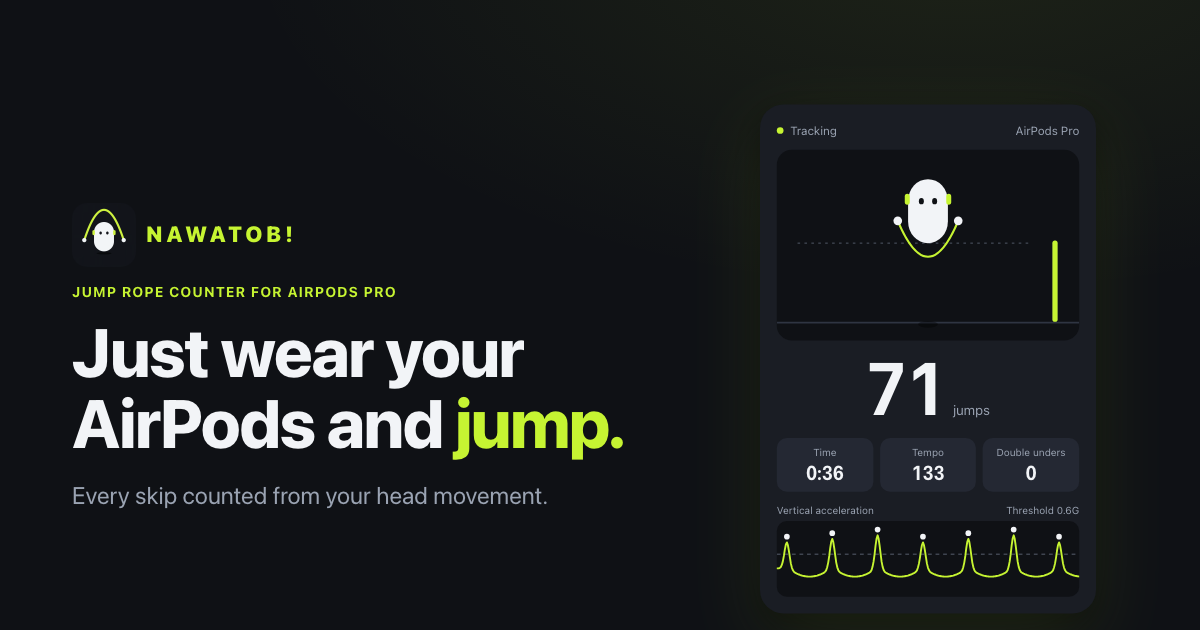
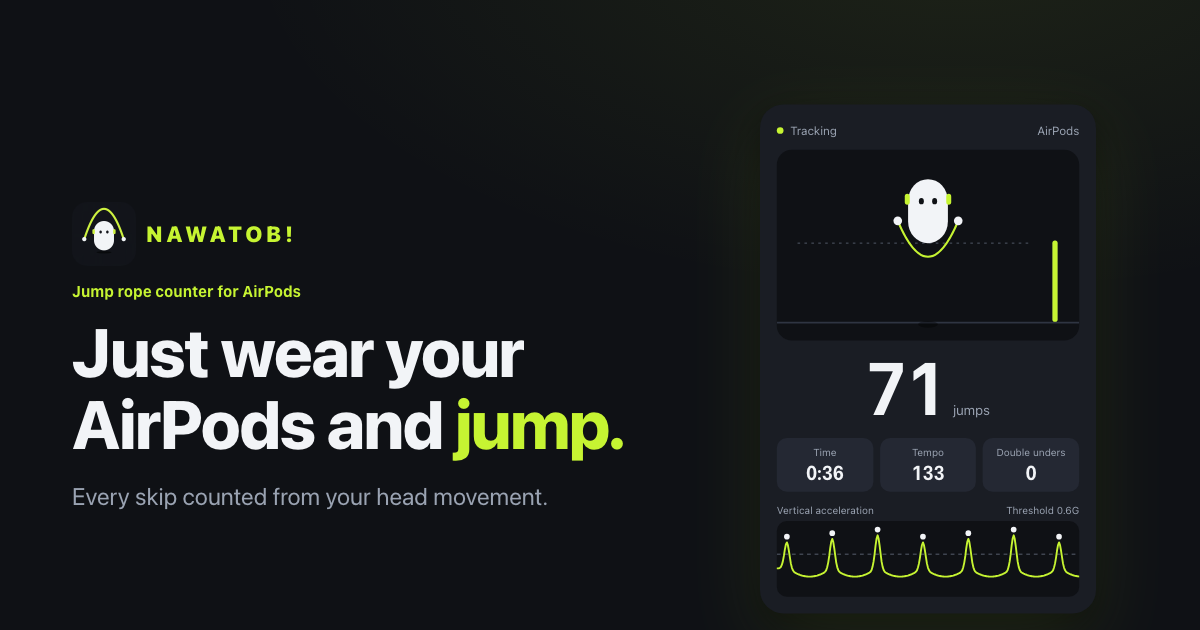
AirPods Pro 専用と誤解されないよう表記を AirPods に揃え、対応機種を明記する
- キャッチコピーを App Store のサブタイトルに合わせて「for AirPods」にし、大文字表示をやめる
- LP・サポート・プライバシーポリシーで Pro が必須と読める箇所を AirPods に直す
- ヒーローに対応機種（AirPods Pro・AirPods Max・AirPods 第3世代以降）を書く

prompt: AIRPODS PRO ってのを変えて AirPodsにして / AirPods Proじゃなくていいのでそれも誤解されないようにしたい

diff --git a/ja/index.html b/ja/index.html
@@ -3,8 +3,8 @@
 <head>
   <meta charset="utf-8">
   <meta name="viewport" content="width=device-width, initial-scale=1">
-  <title>Nawatob! — AirPods Pro で縄跳びを自動カウント</title>
-  <meta name="description" content="AirPods Pro を着けて跳ぶだけ。Nawatob! は頭の動きから縄跳びの回数を自動で数え、テンポ・二重跳び・消費カロリー・連続記録も残す iPhone アプリです。">
+  <title>Nawatob! — AirPods で縄跳びを自動カウント</title>
+  <meta name="description" content="AirPods を着けて跳ぶだけ。Nawatob! は頭の動きから縄跳びの回数を自動で数え、テンポ・二重跳び・消費カロリー・連続記録も残す iPhone アプリです。">
   <link rel="canonical" href="https://ta1m1kam.github.io/nawatobi-support/ja/">
   <link rel="alternate" hreflang="en" href="https://ta1m1kam.github.io/nawatobi-support/">
   <link rel="alternate" hreflang="ja" href="https://ta1m1kam.github.io/nawatobi-support/ja/">
@@ -13,8 +13,8 @@
   <meta name="theme-color" content="#0f1115">
   <meta property="og:type" content="website">
   <meta property="og:site_name" content="Nawatob!">
-  <meta property="og:title" content="Nawatob! — AirPods Pro で縄跳びを自動カウント">
-  <meta property="og:description" content="AirPods Pro を着けて跳ぶだけ。頭の動きから縄跳びの回数を数えます。">
+  <meta property="og:title" content="Nawatob! — AirPods で縄跳びを自動カウント">
+  <meta property="og:description" content="AirPods を着けて跳ぶだけ。頭の動きから縄跳びの回数を数えます。">
   <meta property="og:url" content="https://ta1m1kam.github.io/nawatobi-support/ja/">
   <meta property="og:image" content="https://ta1m1kam.github.io/nawatobi-support/assets/og-ja.png">
   <meta property="og:locale" content="ja_JP">
@@ -30,7 +30,7 @@
     "@context": "https://schema.org",
     "@type": "MobileApplication",
     "name": "Nawatob!",
-    "description": "AirPods Pro で縄跳びを自動カウント。頭の動きからジャンプの回数を数えます。",
+    "description": "AirPods で縄跳びを自動カウント。頭の動きからジャンプの回数を数えます。",
     "operatingSystem": "iOS 26.0 以降",
     "applicationCategory": "HealthApplication",
     "inLanguage": ["ja", "en"],
@@ -51,15 +51,16 @@
   <main>
     <div class="wrap hero">
       <div>
-        <h1><span class="eyebrow">AirPods Pro で縄跳びを自動カウント</span> <span class="phrase">AirPods を着けて、</span><em class="phrase">跳ぶだけ。</em></h1>
+        <h1><span class="eyebrow">AirPods で縄跳びを自動カウント</span> <span class="phrase">AirPods を着けて、</span><em class="phrase">跳ぶだけ。</em></h1>
         <p class="lead">Nawatob! は頭の上下の動きから、縄跳びの回数を 1 回ずつ数えます。iPhone を手に持つ必要も、腕に巻く必要もありません。テンポや消費カロリー、毎日の連続記録も自動で残ります。</p>
         <div class="cta">
           <a class="badge" href="https://apps.apple.com/jp/app/id6816676889"><img src="../assets/app-store-badge-ja.svg" alt="App Store からダウンロード" width="147" height="54"></a>
           <p class="cta-note">買い切り・サブスクなし・広告なし</p>
         </div>
+        <p class="compat">AirPods Pro・AirPods Max・AirPods（第3世代以降）に対応しています。</p>
       </div>
       <div class="stage-card" role="img" aria-label="Nawatob! の計測画面。アバターが縄跳びをし、回数・テンポ・AirPods の加速度の波形がリアルタイムに動く">
-        <div class="stage-status"><span>計測中</span><span>AirPods Pro</span></div>
+        <div class="stage-status"><span>計測中</span><span>AirPods</span></div>
         <svg class="stage" viewBox="0 0 350 220" width="350" height="220" aria-hidden="true"></svg>
         <div class="stage-count"><b class="metric" data-count>71</b><span>回</span></div>
         <dl class="stage-stats">
@@ -75,7 +76,7 @@
     <section>
       <div class="wrap">
         <h2>3 ステップで、すぐ始められる</h2>
-        <p class="section-lead">数えるのは、AirPods Pro にもともと入っているモーションセンサーです。</p>
+        <p class="section-lead">数えるのは、AirPods にもともと入っているモーションセンサーです。</p>
         <ol class="steps">
           <li><h3>AirPods を着ける</h3><p>AirPods Pro、AirPods Max、AirPods（第3世代以降）を iPhone につなぎます。</p></li>
           <li><h3>スタートを押す</h3><p>「3, 2, 1, GO!」のカウントダウンで開始。iPhone はどこに置いても大丈夫です。</p></li>

diff --git a/index.html b/index.html
@@ -3,8 +3,8 @@
 <head>
   <meta charset="utf-8">
   <meta name="viewport" content="width=device-width, initial-scale=1">
-  <title>Nawatob! — Jump rope counter for AirPods Pro</title>
-  <meta name="description" content="Wear your AirPods Pro and jump. Nawatob! counts every skip from your head movement and tracks tempo, double unders, calories, and your daily streak.">
+  <title>Nawatob! — Jump rope counter for AirPods</title>
+  <meta name="description" content="Wear your AirPods and jump. Nawatob! counts every skip from your head movement and tracks tempo, double unders, calories, and your daily streak.">
   <link rel="canonical" href="https://ta1m1kam.github.io/nawatobi-support/">
   <link rel="alternate" hreflang="en" href="https://ta1m1kam.github.io/nawatobi-support/">
   <link rel="alternate" hreflang="ja" href="https://ta1m1kam.github.io/nawatobi-support/ja/">
@@ -13,8 +13,8 @@
   <meta name="theme-color" content="#0f1115">
   <meta property="og:type" content="website">
   <meta property="og:site_name" content="Nawatob!">
-  <meta property="og:title" content="Nawatob! — Jump rope counter for AirPods Pro">
-  <meta property="og:description" content="Wear your AirPods Pro and jump. Every skip is counted from your head movement.">
+  <meta property="og:title" content="Nawatob! — Jump rope counter for AirPods">
+  <meta property="og:description" content="Wear your AirPods and jump. Every skip is counted from your head movement.">
   <meta property="og:url" content="https://ta1m1kam.github.io/nawatobi-support/">
   <meta property="og:image" content="https://ta1m1kam.github.io/nawatobi-support/assets/og-en.png">
   <meta property="og:locale" content="en_US">
@@ -30,7 +30,7 @@
     "@context": "https://schema.org",
     "@type": "MobileApplication",
     "name": "Nawatob!",
-    "description": "Jump rope counter for AirPods Pro. Counts every skip from your head movement.",
+    "description": "Jump rope counter for AirPods. Counts every skip from your head movement.",
     "operatingSystem": "iOS 26.0 or later",
     "applicationCategory": "HealthApplication",
     "inLanguage": ["en", "ja"],
@@ -51,15 +51,16 @@
   <main>
     <div class="wrap hero">
       <div>
-        <h1><span class="eyebrow">Jump rope counter for AirPods Pro</span> Just wear your AirPods and <em>jump.</em></h1>
+        <h1><span class="eyebrow">Jump rope counter for AirPods</span> Just wear your AirPods and <em>jump.</em></h1>
         <p class="lead">Nawatob! counts every skip from your head movement. No phone in your hand, no strap on your arm — your tempo, calories, and daily streak are tracked automatically.</p>
         <div class="cta">
           <a class="badge" href="https://apps.apple.com/app/id6816676889"><img src="assets/app-store-badge-en.svg" alt="Download on the App Store" width="162" height="54"></a>
           <p class="cta-note">One-time purchase · No subscription · No ads</p>
         </div>
+        <p class="compat">Works with AirPods Pro, AirPods Max, and AirPods (3rd generation or later).</p>
       </div>
       <div class="stage-card" role="img" aria-label="The Nawatob! tracking screen: an avatar jumps rope while the jump count, tempo, and AirPods acceleration waveform update live">
-        <div class="stage-status"><span>Tracking</span><span>AirPods Pro</span></div>
+        <div class="stage-status"><span>Tracking</span><span>AirPods</span></div>
         <svg class="stage" viewBox="0 0 350 220" width="350" height="220" aria-hidden="true"></svg>
         <div class="stage-count"><b class="metric" data-count>71</b><span>jumps</span></div>
         <dl class="stage-stats">
@@ -75,7 +76,7 @@
     <section>
       <div class="wrap">
         <h2>Three steps. Zero fiddling.</h2>
-        <p class="section-lead">The motion sensors already inside your AirPods Pro do the counting.</p>
+        <p class="section-lead">The motion sensors already inside your AirPods do the counting.</p>
         <ol class="steps">
           <li><h3>Put on your AirPods</h3><p>Connect AirPods Pro, AirPods Max, or AirPods (3rd generation or later) to your iPhone.</p></li>
           <li><h3>Tap Start</h3><p>A 3, 2, 1, GO! countdown kicks off each set. Leave your iPhone anywhere.</p></li>

diff --git a/assets/site.css b/assets/site.css
@@ -77,9 +77,8 @@ img { max-width: 100%; height: auto; display: block; }
   display: block;
   color: var(--accent);
   font-weight: 700;
-  font-size: 14px;
-  letter-spacing: 0.08em;
-  text-transform: uppercase;
+  font-size: 15px;
+  letter-spacing: 0.01em;
   margin: 0 0 16px;
 }
 
@@ -111,6 +110,8 @@ h1, h2, h3 { text-wrap: balance; }
 .badge img { height: 54px; width: auto; }
 
 .cta-note { color: var(--text-secondary); font-size: 14px; margin: 0; }
+
+.compat { color: var(--text-secondary); font-size: 14px; margin: 20px 0 0; }
 
 .metric {
   font-family: "SF Pro Display", -apple-system, BlinkMacSystemFont, "Roboto Condensed", "Arial Narrow", sans-serif;

diff --git a/privacy-policy.md b/privacy-policy.md
@@ -5,9 +5,9 @@ permalink: /privacy-policy/
 
 # Nawatob! プライバシーポリシー
 
-最終更新日: 2026年10月12日
+最終更新日: 2026年10月14日
 
-「Nawatob!」（以下「本アプリ」）は、AirPods Pro の動きから縄跳びの回数を数えるアプリです。本アプリの開発者は、利用者の個人データを収集しません。
+「Nawatob!」（以下「本アプリ」）は、AirPods の動きから縄跳びの回数を数えるアプリです。本アプリの開発者は、利用者の個人データを収集しません。
 
 ## 収集する情報
 
@@ -15,7 +15,7 @@ permalink: /privacy-policy/
 
 ## モーションデータ
 
-ジャンプを数えるために、AirPods Pro の加速度などのモーションデータを使います。モーションデータは端末上で処理し、外部に送信しません。利用者が CSV の書き出しを選んだときだけ、利用者が選んだ共有先に渡されます。
+ジャンプを数えるために、AirPods の加速度などのモーションデータを使います。モーションデータは端末上で処理し、外部に送信しません。利用者が CSV の書き出しを選んだときだけ、利用者が選んだ共有先に渡されます。
 
 ## カメラと写真
 
@@ -63,9 +63,9 @@ permalink: /privacy-policy/
 
 # Nawatob! Privacy Policy
 
-Last updated: October 12, 2026
+Last updated: October 14, 2026
 
-Nawatob! ("the App") counts your jump rope skips from the motion of your AirPods Pro. The developer of the App does not collect any personal data.
+Nawatob! ("the App") counts your jump rope skips from the motion of your AirPods. The developer of the App does not collect any personal data.
 
 ## Information we collect
 
@@ -73,7 +73,7 @@ The App never sends your information to the developer's or any third party's ser
 
 ## Motion data
 
-The App uses motion data such as acceleration from your AirPods Pro to count jumps. Motion data is processed on your device and is never sent anywhere. It leaves your device only when you choose to export a CSV file, and only to the destination you pick.
+The App uses motion data such as acceleration from your AirPods to count jumps. Motion data is processed on your device and is never sent anywhere. It leaves your device only when you choose to export a CSV file, and only to the destination you pick.
 
 ## Camera and Photos
 
